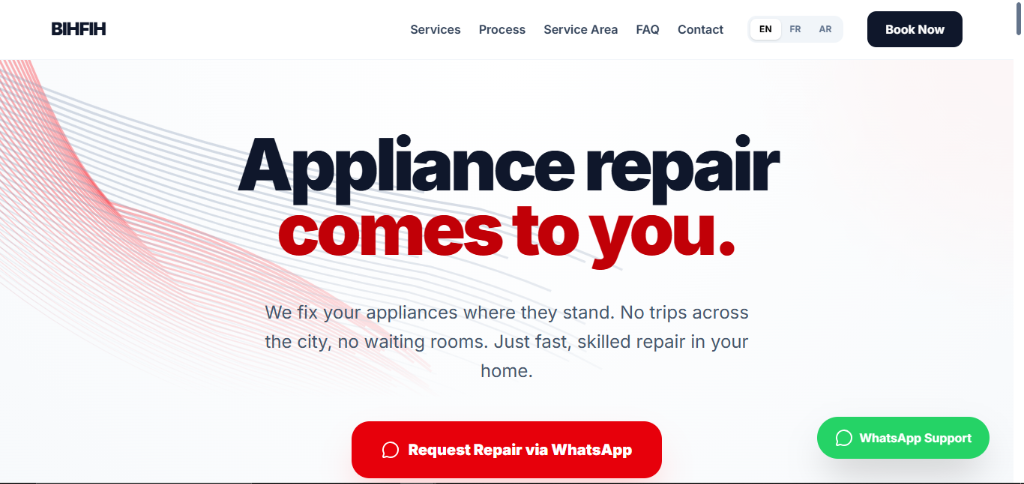
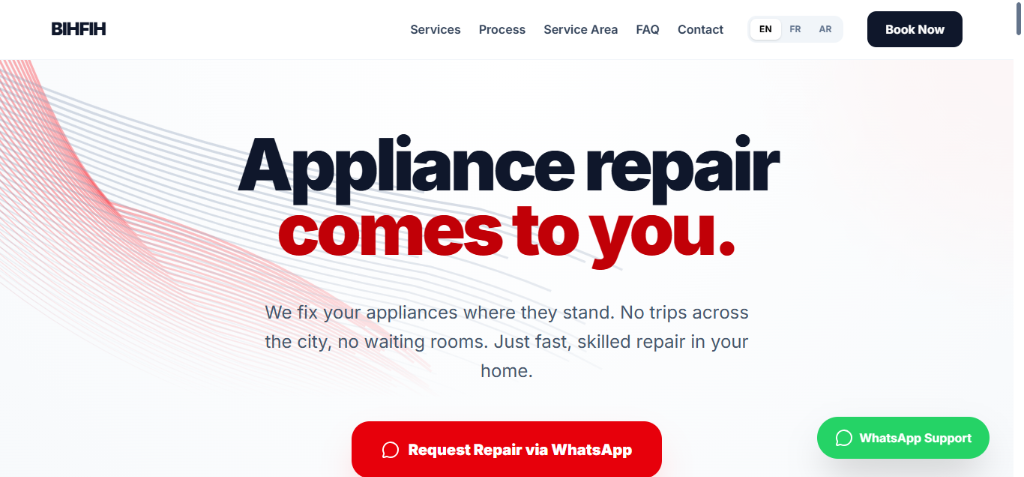
style: make photo container wider and prevent image cropping

diff --git a/src/App.jsx b/src/App.jsx
@@ -101,9 +101,9 @@ function ProjectCard({ image, alt, title, tag }) {
       }`}
     >
       <div className="bg-white rounded-3xl p-4 md:p-8 shadow-sm hover:shadow-lg transition-all duration-500 hover:scale-[1.01]">
-        <div className="rounded-2xl overflow-hidden border border-gray-100 bg-gray-50 aspect-[4/3] md:aspect-[16/10] relative">
+        <div className="rounded-2xl overflow-hidden border border-gray-100 bg-gray-50 flex flex-col relative">
           {/* Browser mockup bar */}
-          <div className="absolute top-0 left-0 right-0 h-10 bg-gray-900 flex items-center px-4 gap-2 z-10">
+          <div className="h-10 bg-gray-900 flex items-center px-4 gap-2 flex-shrink-0">
             <div className="flex gap-1.5">
               <div className="w-2.5 h-2.5 rounded-full bg-red-400/80"></div>
               <div className="w-2.5 h-2.5 rounded-full bg-yellow-400/80"></div>
@@ -117,7 +117,7 @@ function ProjectCard({ image, alt, title, tag }) {
             src={image}
             alt={alt}
             loading="lazy"
-            className="w-full h-full object-cover object-top pt-10 transition-transform duration-700 group-hover:scale-105"
+            className="w-full h-auto transition-transform duration-700 group-hover:scale-[1.03]"
           />
         </div>
         {/* Project label */}
@@ -302,7 +302,7 @@ export default function App() {
 
       {/* ───── RIGHT MAIN CONTENT ───── */}
       <main className="flex-1 h-full overflow-y-auto p-4 md:p-8 lg:p-12 scroll-smooth custom-scrollbar">
-        <div className="max-w-5xl mx-auto space-y-24 pb-24">
+        <div className="max-w-6xl mx-auto space-y-24 pb-24">
           {/* Interleave projects with testimonials */}
           {projects.map((project, i) => (
             <div key={i} className="space-y-24">